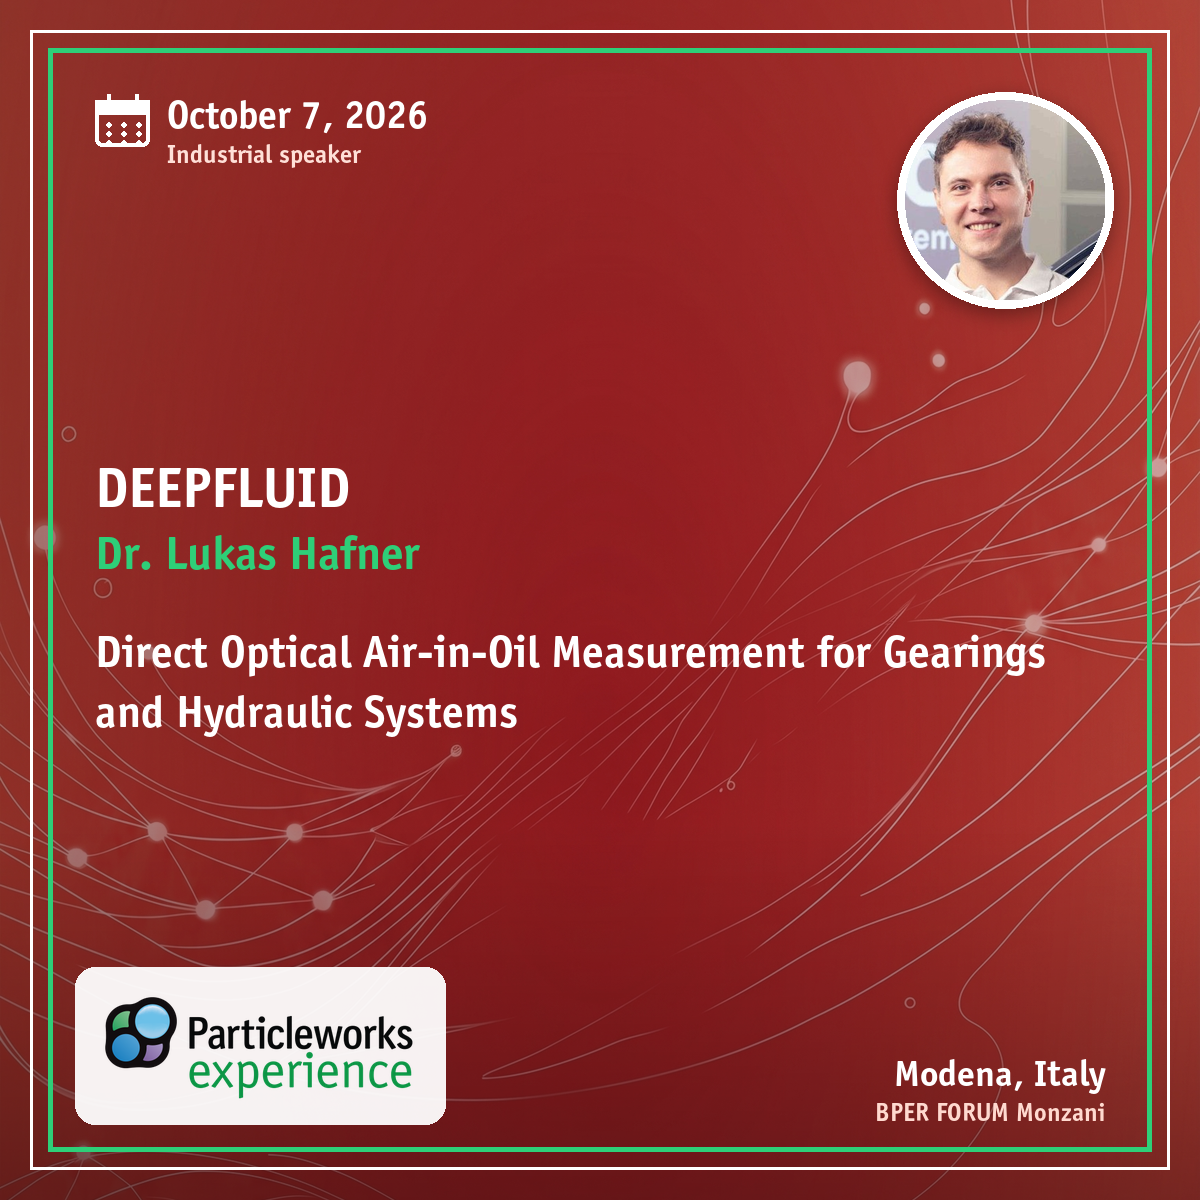
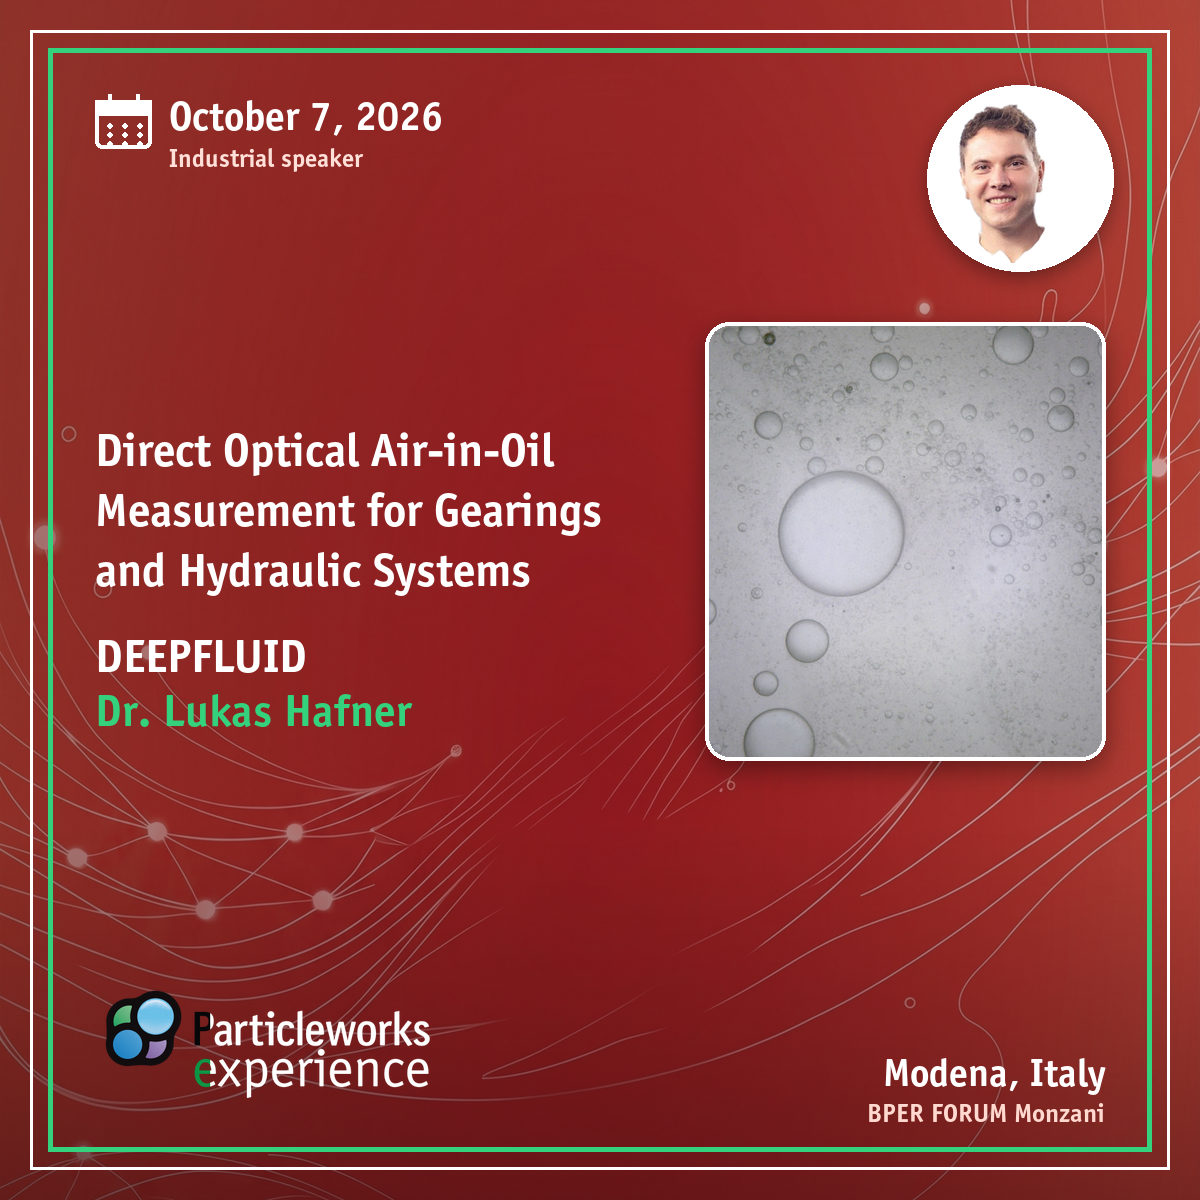
experience/2026: refine speaker cards — title-first, white profiles, sim images
- Reorder text to title (larger) above company and presenter; bump type sizes.
- Drop the white logo badge; render the wordmark in white directly on the bg.
- Give every profile circle a white background: speaker photos are matted
  onto white (GrabCut + flood cleanup), initials avatars use a white disc.
- Where the submitter provided a simulation image, show it as a rounded side
  panel (SKF Taylor-vortices, deepfluid air-in-oil micrograph, Univance gear
  churning render).

diff --git a/experience/cards/make_cards.py b/experience/cards/make_cards.py
@@ -1,192 +1,178 @@
 # -*- coding: utf-8 -*-
 from PIL import Image, ImageDraw, ImageFont, ImageFilter, ImageOps
-import os
+import numpy as np, os
 
 DL   = r"C:\Users\e4user\Downloads"
 ROOT = r"C:\Users\e4user\Documents\ParticleworksProjects\pw-website\experience"
 OUT  = os.path.join(ROOT, "cards")
+PROC = os.path.join(DL, "_proc")          # white-bg cutout photos + sim images
 os.makedirs(OUT, exist_ok=True)
 
 FONT = os.path.join(DL, "OfficinaSans-Bold.otf")
 BG   = os.path.join(DL, "backgroun_new.png")
 LOGO = os.path.join(DL, "experience_logo.png")
-SPK  = os.path.join(ROOT, "speakers")
 
-S = 1200
-WHITE=(255,255,255); GREEN=(46,207,120); SUB=(255,224,216); SUBLOC=(255,217,207)
-GRAD_A=(0,136,204); GRAD_B=(37,163,97)  # avatar gradient
+S=1200
+WHITE=(255,255,255); GREEN=(52,210,124); SUB=(255,224,216); SUBLOC=(255,217,207)
+INI=(10,106,161)                          # initials colour on white circle
 
 def f(sz): return ImageFont.truetype(FONT, sz)
 
 def base_bg():
-    im = Image.open(BG).convert("RGB")
-    # cover-crop to square
-    w,h = im.size
-    scale = S / w
-    im = im.resize((S, int(h*scale)), Image.LANCZOS)
-    top = int((im.size[1]-S)*0.36)
-    im = im.crop((0, top, S, top+S))
-    # legibility scrim: darken, a touch stronger on the left where the text lives
-    scrim = Image.new("L",(S,S),0)
-    sd = ImageDraw.Draw(scrim)
-    for x in range(S):
-        a = int(120 - 55*(x/S))        # 120 -> 65 left to right
-        sd.line([(x,0),(x,S)], fill=max(40,a))
-    black = Image.new("RGB",(S,S),(60,8,10))
-    im = Image.composite(black, im, scrim)
-    # gentle bottom darken for the logo / venue row
-    sc2 = Image.new("L",(S,S),0); d2=ImageDraw.Draw(sc2)
-    for y in range(S):
-        d2.line([(0,y),(S,y)], fill=int(max(0,(y-820)/ (S-820))*110) if y>820 else 0)
-    im = Image.composite(Image.new("RGB",(S,S),(40,6,8)), im, sc2)
+    im=Image.open(BG).convert("RGB"); w,h=im.size
+    sc=S/w; im=im.resize((S,int(h*sc)),Image.LANCZOS)
+    top=int((im.size[1]-S)*0.36); im=im.crop((0,top,S,top+S))
+    scrim=Image.new("L",(S,S),0); sd=ImageDraw.Draw(scrim)
+    for x in range(S): sd.line([(x,0),(x,S)],fill=max(45,int(120-55*(x/S))))
+    im=Image.composite(Image.new("RGB",(S,S),(60,8,10)),im,scrim)
+    sc2=Image.new("L",(S,S),0); d2=ImageDraw.Draw(sc2)
+    for y in range(S): d2.line([(0,y),(S,y)],fill=int(max(0,(y-820)/(S-820))*110) if y>820 else 0)
+    im=Image.composite(Image.new("RGB",(S,S),(40,6,8)),im,sc2)
     return im
 
 def draw_frame(d):
-    d.rectangle([30,30,S-31,S-31], outline=WHITE, width=3)
-    d.rectangle([48,48,S-49,S-49], outline=GREEN, width=5)
+    d.rectangle([30,30,S-31,S-31],outline=WHITE,width=3)
+    d.rectangle([48,48,S-49,S-49],outline=GREEN,width=5)
 
-def calendar_icon(im, x, y, s=54, col=WHITE):
-    d = ImageDraw.Draw(im)
-    d.rounded_rectangle([x, y+8, x+s, y+s], radius=7, outline=col, width=4)
-    d.rectangle([x, y+8, x+s, y+22], fill=col)
-    d.line([x+13,y+2,x+13,y+14], fill=col, width=4)
-    d.line([x+s-13,y+2,x+s-13,y+14], fill=col, width=4)
+def calendar_icon(im,x,y,s=56,col=WHITE):
+    d=ImageDraw.Draw(im)
+    d.rounded_rectangle([x,y+8,x+s,y+s],radius=7,outline=col,width=4)
+    d.rectangle([x,y+8,x+s,y+23],fill=col)
+    d.line([x+14,y+2,x+14,y+15],fill=col,width=4); d.line([x+s-14,y+2,x+s-14,y+15],fill=col,width=4)
     for r in range(3):
-        for c in range(3):
-            d.ellipse([x+11+c*15, y+30+r*9, x+16+c*15, y+35+r*9], fill=col)
+        for c in range(3): d.ellipse([x+12+c*15,y+31+r*9,x+17+c*15,y+36+r*9],fill=col)
 
-def fit(text, max_w, start, lo=22):
+def white_logo():
+    logo=Image.open(LOGO).convert("RGBA"); a=np.array(logo)
+    r,g,b,al=a[...,0].astype(int),a[...,1].astype(int),a[...,2].astype(int),a[...,3]
+    X=np.broadcast_to(np.arange(a.shape[1]),a.shape[:2])
+    lum=0.299*r+0.587*g+0.114*b
+    dark=(lum<120)&(al>40)&(X>190)          # the black "Particleworks" wordmark -> white
+    a[...,0][dark]=255;a[...,1][dark]=255;a[...,2][dark]=255
+    return Image.fromarray(a)
+
+def fit(text,max_w,start,lo=24):
     sz=start
     while sz>lo:
-        ft=f(sz)
-        if ft.getlength(text)<=max_w: return ft
+        if f(sz).getlength(text)<=max_w: return f(sz)
         sz-=2
     return f(lo)
 
-def wrap(text, ft, max_w):
-    words=text.split(); lines=[]; cur=""
-    for w in words:
+def wrap(text,ft,max_w):
+    out=[]; cur=""
+    for w in text.split():
         t=(cur+" "+w).strip()
         if ft.getlength(t)<=max_w: cur=t
         else:
-            if cur: lines.append(cur)
+            if cur: out.append(cur)
             cur=w
-    if cur: lines.append(cur)
-    return lines
+    if cur: out.append(cur)
+    return out
 
-def circle_photo(im, path, cx, cy, dia):
+def circle_photo(im,path,cx,cy,dia):
     ring=8
-    # white ring + soft shadow
-    sh=Image.new("RGBA",(S,S),(0,0,0,0)); sd=ImageDraw.Draw(sh)
-    sd.ellipse([cx-dia//2-ring, cy-dia//2-ring+6, cx+dia//2+ring, cy+dia//2+ring+6], fill=(0,0,0,90))
-    sh=sh.filter(ImageFilter.GaussianBlur(9)); im.alpha_composite(sh)
-    d=ImageDraw.Draw(im)
-    d.ellipse([cx-dia//2-ring, cy-dia//2-ring, cx+dia//2+ring, cy+dia//2+ring], fill=WHITE)
-    ph=Image.open(path).convert("RGB")
-    ph=ImageOps.fit(ph,(dia,dia),Image.LANCZOS,centering=(0.5,0.42))
+    sh=Image.new("RGBA",(S,S),(0,0,0,0)); ImageDraw.Draw(sh).ellipse(
+        [cx-dia//2-ring,cy-dia//2-ring+6,cx+dia//2+ring,cy+dia//2+ring+6],fill=(0,0,0,90))
+    im.alpha_composite(sh.filter(ImageFilter.GaussianBlur(9)))
+    d=ImageDraw.Draw(im); d.ellipse([cx-dia//2-ring,cy-dia//2-ring,cx+dia//2+ring,cy+dia//2+ring],fill=WHITE)
+    ph=ImageOps.fit(Image.open(path).convert("RGB"),(dia,dia),Image.LANCZOS,centering=(0.5,0.42))
     mask=Image.new("L",(dia,dia),0); ImageDraw.Draw(mask).ellipse([0,0,dia,dia],fill=255)
     im.paste(ph,(cx-dia//2,cy-dia//2),mask)
 
-def circle_initials(im, initials, cx, cy, dia):
-    ring=8; d=ImageDraw.Draw(im)
-    d.ellipse([cx-dia//2-ring, cy-dia//2-ring, cx+dia//2+ring, cy+dia//2+ring], fill=WHITE)
-    grad=Image.new("RGB",(dia,dia))
-    for yy in range(dia):
-        for xx in range(0,dia,1):
-            t=(xx+yy)/(2*dia)
-            grad.putpixel((xx,yy),tuple(int(GRAD_A[i]+(GRAD_B[i]-GRAD_A[i])*t) for i in range(3)))
-    mask=Image.new("L",(dia,dia),0); ImageDraw.Draw(mask).ellipse([0,0,dia,dia],fill=255)
-    im.paste(grad,(cx-dia//2,cy-dia//2),mask)
-    ft=f(int(dia*0.42)); tw=ft.getlength(initials)
-    bb=ft.getbbox(initials); th=bb[3]-bb[1]
-    d.text((cx-tw/2, cy-th/2-bb[1]), initials, font=ft, fill=WHITE)
+def circle_initials(im,initials,cx,cy,dia):
+    ring=8
+    sh=Image.new("RGBA",(S,S),(0,0,0,0)); ImageDraw.Draw(sh).ellipse(
+        [cx-dia//2-ring,cy-dia//2-ring+6,cx+dia//2+ring,cy+dia//2+ring+6],fill=(0,0,0,90))
+    im.alpha_composite(sh.filter(ImageFilter.GaussianBlur(9)))
+    d=ImageDraw.Draw(im)
+    d.ellipse([cx-dia//2-ring,cy-dia//2-ring,cx+dia//2+ring,cy+dia//2+ring],fill=WHITE)  # white circle
+    ft=f(int(dia*0.4)); tw=ft.getlength(initials); bb=ft.getbbox(initials)
+    d.text((cx-tw/2,cy-(bb[3]-bb[1])/2-bb[1]),initials,font=ft,fill=INI)
+
+def sim_panel(im,path,box):
+    x0,y0,x1,y1=box; w,h=x1-x0,y1-y0
+    sh=Image.new("RGBA",(S,S),(0,0,0,0)); ImageDraw.Draw(sh).rounded_rectangle(
+        [x0,y0+8,x1,y1+8],radius=24,fill=(0,0,0,95))
+    im.alpha_composite(sh.filter(ImageFilter.GaussianBlur(12)))
+    img=ImageOps.fit(Image.open(path).convert("RGB"),(w,h),Image.LANCZOS)
+    mask=Image.new("L",(w,h),0); ImageDraw.Draw(mask).rounded_rectangle([0,0,w,h],radius=24,fill=255)
+    card=Image.new("RGBA",(w,h),(0,0,0,0)); card.paste(img,(0,0)); card.putalpha(mask)
+    im.alpha_composite(card,(x0,y0))
+    ImageDraw.Draw(im).rounded_rectangle([x0,y0,x1,y1],radius=24,outline=WHITE,width=4)
 
 def make_card(c):
-    im = base_bg().convert("RGBA")
-    d = ImageDraw.Draw(im)
-    draw_frame(d)
-    M=95
-    # date block
-    calendar_icon(im, M, 92)
+    im=base_bg().convert("RGBA"); d=ImageDraw.Draw(im); draw_frame(d)
+    M=95; sim=c.get("sim")
+    # date
+    calendar_icon(im,M,92); d=ImageDraw.Draw(im)
+    d.text((M+74,90),c["date"],font=f(42),fill=WHITE)
+    d.text((M+74,142),c["cat"],font=f(26),fill=SUB)
+    # avatar top-right
+    if sim: cx,cy,dia=S-95-85,178,170
+    else:   cx,cy,dia=S-95-100,200,200
+    p=c["photos"][0]
+    (circle_photo if p[0] else circle_initials)(im,p[1],cx,cy,dia)
+    # sim panel
+    if sim: sim_panel(im,sim,(705,322,1105,760))
+    # text block (title -> company -> presenter), vertically centred
+    tw = 580 if sim else (S-2*M)
+    tf=f(56); lines=wrap(c["title"],tf,tw)
+    if len(lines)>3: tf=f(48); lines=wrap(c["title"],tf,tw)
+    if len(lines)>4: tf=f(42); lines=wrap(c["title"],tf,tw)
+    cf=fit(c["company"],tw,48); pf=fit(c["speakers"],tw,46)
+    tlh=tf.size+12; g1=26; g2=8
+    H=len(lines)*tlh+g1+cf.size+g2+pf.size
+    top,bot=326,824; y=top+max(0,(bot-top-H)//2)
     d=ImageDraw.Draw(im)
-    d.text((M+72, 90), c["date"], font=f(40), fill=WHITE)
-    d.text((M+72, 138), c["cat"], font=f(26), fill=SUB)
-    # photos top-right
-    photos=c["photos"]; dia=200; cy=200; rx=S-95-dia//2
-    if len(photos)==1:
-        p=photos[0]
-        (circle_photo if p[0] else circle_initials)(im, p[1], rx, cy, dia)
-    elif len(photos)>=2:
-        d2=176; gap=28
-        x2=S-95-d2//2
-        x1=x2-d2-gap
-        for (px,(isph,val)) in zip([x1,x2], photos[:2]):
-            (circle_photo if isph else circle_initials)(im, val, px, cy, d2)
-    # company + speakers
-    d=ImageDraw.Draw(im)
-    cf=fit(c["company"], S-2*M, 58); d.text((M, 452), c["company"], font=cf, fill=WHITE)
-    sf=fit(c["speakers"], S-2*M, 48); d.text((M, 524), c["speakers"], font=sf, fill=GREEN)
-    # title
-    tf=f(46); maxw=S-2*M
-    lines=wrap(c["title"], tf, maxw)
-    if len(lines)>4:
-        tf=f(40); lines=wrap(c["title"], tf, maxw)
-    y=624; lh=tf.size+14
-    for ln in lines:
-        d.text((M,y), ln, font=tf, fill=WHITE); y+=lh
-    # logo bottom-left on a clean white badge for legibility
-    logo=Image.open(LOGO).convert("RGBA"); lw=330
-    logo=logo.resize((lw,int(logo.size[1]*lw/logo.size[0])),Image.LANCZOS)
-    lx, ly = M, S-96-logo.size[1]
-    pad=20
-    pill=Image.new("RGBA",(S,S),(0,0,0,0))
-    ImageDraw.Draw(pill).rounded_rectangle(
-        [lx-pad, ly-pad, lx+logo.size[0]+pad, ly+logo.size[1]+pad], radius=20, fill=(255,255,255,240))
-    im.alpha_composite(pill)
-    im.alpha_composite(logo,(lx,ly))
+    for ln in lines: d.text((M,y),ln,font=tf,fill=WHITE); y+=tlh
+    y+=g1; d.text((M,y),c["company"],font=cf,fill=WHITE); y+=cf.size+g2
+    d.text((M,y),c["speakers"],font=pf,fill=GREEN)
+    # white logo (no badge), bottom-left
+    lg=white_logo(); lw=348; lg=lg.resize((lw,int(lg.size[1]*lw/lg.size[0])),Image.LANCZOS)
+    im.alpha_composite(lg,(M,S-96-lg.size[1]))
     # venue bottom-right
-    vf=f(38); vsub=f(26)
-    t1=c["loc1"]; t2=c["loc2"]
-    d.text((S-95-vf.getlength(t1), S-150), t1, font=vf, fill=WHITE)
-    d.text((S-95-vsub.getlength(t2), S-104), t2, font=vsub, fill=SUBLOC)
-    im.convert("RGB").save(os.path.join(OUT, c["file"]), "PNG")
-    print("wrote", c["file"], "| title lines:", len(lines))
+    t1,t2=c["loc1"],c["loc2"]
+    d.text((S-95-f(40).getlength(t1),S-152),t1,font=f(40),fill=WHITE)
+    d.text((S-95-f(27).getlength(t2),S-104),t2,font=f(27),fill=SUBLOC)
+    im.convert("RGB").save(os.path.join(OUT,c["file"]),"PNG")
+    print("wrote",c["file"],"|",len(lines),"title lines",("+sim" if sim else ""))
 
-def ph(name):  return (True, os.path.join(SPK, name))
-def ini(s):    return (False, s)
-
+def ph(name): return (True, os.path.join(PROC,name))
+def ini(s):   return (False, s)
+def simp(n):  return os.path.join(PROC,n)
 DATE="October 7, 2026"; L1="Modena, Italy"; L2="BPER FORUM Monzani"
+
 cards=[
- dict(file="card-01-prometech.png", date=DATE, cat="Developer keynote", company="PROMETECH SOFTWARE",
-      speakers="Iori Saigo", title="What's New in Particleworks 9.0 and Granuleworks 4.0",
-      photos=[ph("iori-saigo.jpg")], loc1=L1, loc2=L2),
- dict(file="card-02-mtu.png", date=DATE, cat="Industrial speaker", company="MTU AERO ENGINES",
-      speakers="Alpcan Güray", title="Simulation of Shot Peening: A CFD-DEM Coupled Case Study",
-      photos=[ph("alpcan-guray.jpg")], loc1=L1, loc2=L2),
- dict(file="card-03-unimore-stator.png", date=DATE, cat="Academic speaker", company="UNIVERSITY OF MODENA AND REGGIO EMILIA",
-      speakers="Michelangelo Raimondo", title="An Integrated Simulation Approach for Stator Oil Jacket and Jet Cooling Systems",
-      photos=[ph("michelangelo-raimondo.jpg")], loc1=L1, loc2=L2),
- dict(file="card-04-rdcfd-pump.png", date=DATE, cat="Industrial speaker", company="R&D CFD",
-      speakers="Leonardo Lanciotti", title="CHT Analysis of a Reciprocating Pump",
-      photos=[ph("leonardo-lanciotti.jpg")], loc1=L1, loc2=L2),
- dict(file="card-05-hesso-pelton.png", date=DATE, cat="Academic speaker", company="HES-SO VALAIS//WALLIS",
-      speakers="Jean Decaix", title="Moving Particle Simulation of Eroded Pelton Runners",
-      photos=[ph("jean-decaix.jpg")], loc1=L1, loc2=L2),
- dict(file="card-06-skf.png", date=DATE, cat="Industrial speaker", company="SKF",
-      speakers="Lijun Cao", title="Verification of Heat Transfer Coefficient in Particleworks for Bearings",
-      photos=[ini("LC")], loc1=L1, loc2=L2),
- dict(file="card-07-deepfluid.png", date=DATE, cat="Industrial speaker", company="DEEPFLUID",
-      speakers="Dr. Lukas Hafner", title="Direct Optical Air-in-Oil Measurement for Gearings and Hydraulic Systems",
-      photos=[ph("lukas-hafner.jpg")], loc1=L1, loc2=L2),
- dict(file="card-08-trackone.png", date=DATE, cat="Industrial speaker", company="TRACK ONE",
-      speakers="Leonardo Tiberi", title="Study of the Lubrication on Carrier Roller using a CFD 3D-MPS Method",
-      photos=[ini("LT")], loc1=L1, loc2=L2),
- dict(file="card-09-univance.png", date=DATE, cat="Industrial speaker", company="UNIVANCE CORPORATION",
-      speakers="Naohiro Fujita", title="Application of Particleworks to Gear Lubrication Analysis and Its Expansion to R&D on Airflow Effects",
-      photos=[ph("naohiro-fujita.jpg")], loc1=L1, loc2=L2),
- dict(file="card-10-iav.png", date=DATE, cat="Industrial speaker", company="IAV",
-      speakers="René Kockisch", title="From Formation to Dissolution: Air Bubble Dynamics in Gear Oil of an Electric 3-Speed Drivetrain",
-      photos=[ini("RK")], loc1=L1, loc2=L2),
+ dict(file="card-01-prometech.png",date=DATE,cat="Developer keynote",company="PROMETECH SOFTWARE",
+      speakers="Iori Saigo",title="What's New in Particleworks 9.0 and Granuleworks 4.0",
+      photos=[ph("iori-saigo.png")],loc1=L1,loc2=L2),
+ dict(file="card-02-mtu.png",date=DATE,cat="Industrial speaker",company="MTU AERO ENGINES",
+      speakers="Alpcan Güray",title="Simulation of Shot Peening: A CFD-DEM Coupled Case Study",
+      photos=[ph("alpcan-guray.png")],loc1=L1,loc2=L2),
+ dict(file="card-03-unimore-stator.png",date=DATE,cat="Academic speaker",company="UNIVERSITY OF MODENA AND REGGIO EMILIA",
+      speakers="Michelangelo Raimondo",title="An Integrated Simulation Approach for Stator Oil Jacket and Jet Cooling Systems",
+      photos=[ph("michelangelo-raimondo.png")],loc1=L1,loc2=L2),
+ dict(file="card-04-rdcfd-pump.png",date=DATE,cat="Industrial speaker",company="R&D CFD",
+      speakers="Leonardo Lanciotti",title="CHT Analysis of a Reciprocating Pump",
+      photos=[ph("leonardo-lanciotti.png")],loc1=L1,loc2=L2),
+ dict(file="card-05-hesso-pelton.png",date=DATE,cat="Academic speaker",company="HES-SO VALAIS//WALLIS",
+      speakers="Jean Decaix",title="Moving Particle Simulation of Eroded Pelton Runners",
+      photos=[ph("jean-decaix.png")],loc1=L1,loc2=L2),
+ dict(file="card-06-skf.png",date=DATE,cat="Industrial speaker",company="SKF",
+      speakers="Lijun Cao",title="Verification of Heat Transfer Coefficient in Particleworks for Bearings",
+      photos=[ini("LC")],sim=simp("skf.png"),loc1=L1,loc2=L2),
+ dict(file="card-07-deepfluid.png",date=DATE,cat="Industrial speaker",company="DEEPFLUID",
+      speakers="Dr. Lukas Hafner",title="Direct Optical Air-in-Oil Measurement for Gearings and Hydraulic Systems",
+      photos=[ph("lukas-hafner.png")],sim=simp("deepfluid.png"),loc1=L1,loc2=L2),
+ dict(file="card-08-trackone.png",date=DATE,cat="Industrial speaker",company="TRACK ONE",
+      speakers="Leonardo Tiberi",title="Study of the Lubrication on Carrier Roller using a CFD 3D-MPS Method",
+      photos=[ini("LT")],loc1=L1,loc2=L2),
+ dict(file="card-09-univance.png",date=DATE,cat="Industrial speaker",company="UNIVANCE CORPORATION",
+      speakers="Naohiro Fujita",title="Application of Particleworks to Gear Lubrication Analysis and Its Expansion to R&D on Airflow Effects",
+      photos=[ph("naohiro-fujita.png")],sim=simp("univance.png"),loc1=L1,loc2=L2),
+ dict(file="card-10-iav.png",date=DATE,cat="Industrial speaker",company="IAV",
+      speakers="René Kockisch",title="From Formation to Dissolution: Air Bubble Dynamics in Gear Oil of an Electric 3-Speed Drivetrain",
+      photos=[ini("RK")],loc1=L1,loc2=L2),
 ]
 for c in cards: make_card(c)
-print("DONE ->", OUT)
+print("DONE ->",OUT)
